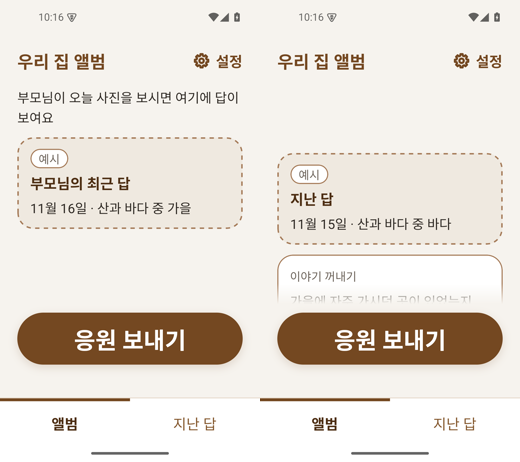
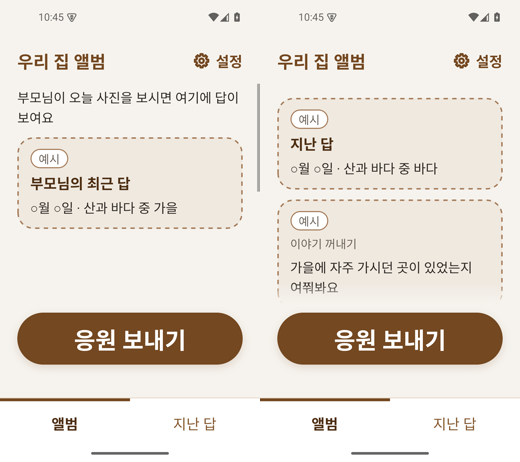
fix(c4): 리뷰 M1·L1·L3·L4·디자인 결정 반영(PR #87)
- M1: 이야기 꺼내기도 예시 카드와 같은 모양(칩·점선·흐린 면, 디자인 #92 a), 읽기 '예시, 이야기 꺼내기, …'
- 예시 날짜 '○월 ○일'(디자인 #89, 리뷰 L2)
- L1: 연결 0명(parents 빈 배열의 가짜 호환 한 분)이면 빈 상태 대신 기존 카드
- L3: 나누지 않는 분이 섞인 경우·빈 상태에서 첫 답이 생기는 경우 테스트
- L4: 옛 Screen 흐림(28)에 걸치면 민다, 민 요소는 창 끝으로(useFoldGap onViewport(h, pushTo))
- main 병합(dev-app-notes 양쪽 유지)

diff --git a/app/src/features/home/ChildHome.tsx b/app/src/features/home/ChildHome.tsx
@@ -5,7 +5,7 @@ import type {NativeStackNavigationProp} from '@react-navigation/native-stack';
 import type {ChildParams} from '../../app/ChildStack';
 import {useSession} from '../../app/session';
 import {TopBar} from '../../ui/TopBar';
-import {Screen} from '../../ui/Screen';
+import {Screen, SCREEN_FADE_H} from '../../ui/Screen';
 import {Text20} from '../../ui/Text20';
 import {BigButton} from '../../ui/BigButton';
 import {BottomSheet} from '../../ui/BottomSheet';
@@ -52,7 +52,8 @@ export function ChildHome() {
   const reachable = list.filter(p => p.connected && p.parentId); // 옛 서버(parent_id 없음)면 보낼 대상이 없다
   const dup = findTitleDup(list);
   // C4 첫날 빈 상태 안 B(#59): 연결된 분이 모두 보여 주기로 했고 아직 고른 답이 없을 때(첫날). 나누지 않음·연결 끊김은 기존 카드
-  const firstDay = !!info && list.length > 0 && list.every(p => p.connected && p.shared && !p.latest);
+  //   리뷰 L1: 연결 0명(새 계약 parents 빈 배열)이면 옛 계약 호환 가짜 한 분(parentId '')이 생긴다 → 빈 상태 B 의 '보시면 보여요' 약속은 틀리므로 기존 카드
+  const firstDay = !!info && info.parents.length > 0 && list.every(p => p.parentId && p.connected && p.shared && !p.latest);
   const emptyFold = useEmptyFold();
 
   // AC-05 전환 분모: 이 기기에서 답 카드를 처음 본 때 한 번(child_first_answer_viewed{days_since_connect}). 답 내용·날짜는 싣지 않는다
@@ -105,7 +106,8 @@ export function ChildHome() {
 
   return (
     <View style={styles.flex}>
-      <Screen top={top} bottom={bottom} onViewport={emptyFold.onViewport}>
+      {/* 리뷰 L4: 옛 Screen 의 아래 흐림(SCREEN_FADE_H, 겹쳐 그림)에 걸치면 민다(기준 = 흐림 위), 민 요소는 흐림 밑(창 끝)으로 — 흐림 속에 위 테두리가 비치지 않게 */}
+      <Screen top={top} bottom={bottom} onViewport={h => emptyFold.onViewport(h - SCREEN_FADE_H, h)}>
         {error ? <Text20 weight="bold" accessibilityLiveRegion="polite">{error.title}</Text20> : null}
         {!info ? (
           <Text20>{appCopy.loading}</Text20>

diff --git a/app/src/ui/ds/useFoldGap.tsx b/app/src/ui/ds/useFoldGap.tsx
@@ -17,6 +17,7 @@ import type {LayoutChangeEvent, ViewStyle} from 'react-native';
  */
 export function useFoldGap(count: number, between: number, from = 0, glue: readonly number[] = []) {
   const [viewH, setViewH] = useState(0);
+  const [pushAt, setPushAt] = useState(0); // 민 요소의 위 끝이 갈 곳(기본 = viewH). 겹쳐 그리는 흐림이 있으면 흐림 아래 끝(창 끝)
   const [blockY, setBlockY] = useState<number | null>(null);
   const [hs, setHs] = useState<Record<number, number>>({});
   const [gap, setGap] = useState<{before: number; h: number} | null>(null);
@@ -37,7 +38,8 @@ export function useFoldGap(count: number, between: number, from = 0, glue: reado
       }
       if (top + h > viewH && i >= from) {
         const withPrev = i - 1 >= from && glue.includes(i - 1);
-        next = withPrev ? {before: i - 1, h: Math.ceil(viewH - prevTop)} : {before: i, h: Math.ceil(viewH - top)}; // 걸침 → 그 위에 간격(제목이면 함께)
+        const to = Math.max(viewH, pushAt);
+        next = withPrev ? {before: i - 1, h: Math.ceil(to - prevTop)} : {before: i, h: Math.ceil(to - top)}; // 걸침 → 그 위에 간격(제목이면 함께)
         break;
       }
       prevTop = top;
@@ -46,9 +48,13 @@ export function useFoldGap(count: number, between: number, from = 0, glue: reado
     if ((next?.before ?? -1) !== (gap?.before ?? -1) || Math.abs((next?.h ?? 0) - (gap?.h ?? 0)) > 1) {
       setGap(next);
     }
-  }, [viewH, blockY, hs, gap, count, between, from, glue]);
+  }, [viewH, pushAt, blockY, hs, gap, count, between, from, glue]);
   return {
-    onViewport: (h: number) => setViewH(h),
+    /** h = 접힘 기준(여기서 걸치면 민다), pushTo = 민 요소가 갈 위치(겹쳐 그리는 흐림이 있으면 그 아래 끝, 없으면 생략) */
+    onViewport: (h: number, pushTo?: number) => {
+      setViewH(h);
+      setPushAt(pushTo ?? h);
+    },
     onBlock: (e: LayoutChangeEvent) => setBlockY(e.nativeEvent.layout.y),
     onItem: (i: number) => (e: LayoutChangeEvent) => {
       const h = e.nativeEvent.layout.height;

diff --git a/app/src/features/home/ChildHomeEmpty.tsx b/app/src/features/home/ChildHomeEmpty.tsx
@@ -1,6 +1,6 @@
 import React from 'react';
 import {StyleSheet, View} from 'react-native';
-import {AudienceProvider, Card, Text} from '../../ui/ds';
+import {AudienceProvider, Text} from '../../ui/ds';
 import {ds} from '../../ui/ds/roles';
 import {useFoldGap} from '../../ui/ds/useFoldGap';
 import {copy} from '../../copy/copy';
@@ -41,13 +41,20 @@ export function ChildHomeEmpty({fold}: {fold: ReturnType<typeof useEmptyFold>}) 
             <Text role="bodyLg">{`${x.line} ${x.choice}`}</Text>
           </View>
         ))}
-        <View onLayout={fold.onItem(3)} style={fold.gapStyle(3)} testID="child-home-empty-starter">
-          <Card tone="outlined">
-            <Text role="sub" tone="default">
-              {e.starter_label}
-            </Text>
-            <Text role="bodyLg">{e.starter}</Text>
-          </Card>
+        {/* 이야기 꺼내기도 예시(PR #87 M1·디자인 #92 a): 예시 카드와 같은 모양(칩·점선·흐린 면), 읽기 이름도 '예시'로 시작 */}
+        <View
+          testID="child-home-empty-starter"
+          accessible
+          accessibilityLabel={`${e.chip}, ${e.starter_label}, ${e.starter}`}
+          onLayout={fold.onItem(3)}
+          style={[styles.example, fold.gapStyle(3)]}>
+          <View style={styles.chip}>
+            <Text role="sub">{e.chip}</Text>
+          </View>
+          <Text role="sub" tone="default">
+            {e.starter_label}
+          </Text>
+          <Text role="bodyLg">{e.starter}</Text>
         </View>
       </View>
     </AudienceProvider>

diff --git a/docs/team/dev-app-notes.md b/docs/team/dev-app-notes.md
@@ -616,3 +616,4 @@
 - 리뷰(#83): M1 만료로 바뀌면 announce 1회, L1 공유 뒤 안내 announce, L5 복사 띠 key 로 다시 읽음, L6 불러오는 중 Dock = loading, L2 만료 띠 new_code_note 뺌(디자인 a), L3 dockKey 에 kind·icon, L4 Dock 이 그린 단계와 같은 측정만 씀
 - DsScreen: R-12 Dock 풀림을 `dockReleaseOnKeyboard` 로만 켬(C0-b 만, P6 충돌 방지 #82 L2). 풀린 조건 기억(L3), 넘침 단계 ref(L4).
 - 재확인(bcf7189) 반영: H1 접힘 기준 = 본문 영역(스크롤 창 + 띠, Screen onBodyArea) − 띠 24. 띠가 나오고 사라져도 그대로(스크롤 창 높이를 쓰면 맨 아래에서 튐, '잰 값 중 최대' 판은 첫 배치의 일시적 큰 값을 잡아 틀림 — 실측). 접힘 맞춤은 ui/ds useFoldGap(count, between, from, glue)로 일반화. L9 묶음 제목은 첫 단계와 붙여 민다(glue). L7 처음부터 만료면 알리지 않음(번호 카드를 보던 중 바뀔 때만). L8 기준 150% 이상 유지(디자인 a). L10 접힘 맞춤은 3단계 묶음만(번호 카드는 늘 첫 요소, 알림 줄은 카드 안/바로 아래라 대상 밖) — 다른 화면은 useFoldGap 로 각자.
+- 리뷰(fa3a63b) 반영: M1 이야기 꺼내기도 예시 카드와 같은 모양(칩·점선·흐린 면, 디자인 #92 a)·읽기 '예시, 이야기 꺼내기, …'. 예시 날짜 '○월 ○일'(디자인 #89). L1 연결 0명(parents 빈 배열·가짜 호환 한 분)이면 빈 상태 대신 기존 카드. L3 테스트(나누지 않는 분 섞임·첫 답이 생기면 실제 카드). L4 옛 Screen 흐림(28)에 걸치면 민다(기준 = 창 − 28), 민 요소는 창 끝으로(useFoldGap onViewport(h, pushTo)) — 흐림 속에 위 테두리가 비치던 것 실측 후 고침.
